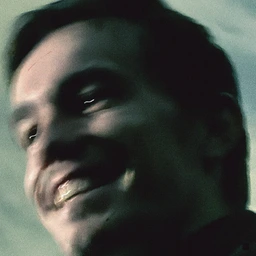
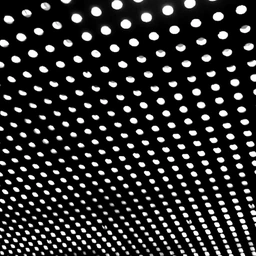
Slide Spotify out whole at the filter flip and swap in Liam's songs
- At the flip, Spotify shrank in place while the centred bar narrowed,
  so the bar's left edge moved right 24px as the block squeezed. Liam
  saw it as a snap. The bar now narrows as it rises, as the header
  narrows on scroll, finishing as the flip starts. At the flip Spotify
  slides out whole under the bar's left edge, fading a little, while the
  fill and label follow its right edge on the header flip's ease. A test
  checks every 60fps frame of the flip for jumps.
- Songs: Mimesis by Fontaines D.C. (playing), Lovely Sewer by Yves
  Tumor (4m ago), Lazuli by Beach House (playing). Same times and states
  as before, with their covers from Spotify.

diff --git a/src/lib/og-story.ts b/src/lib/og-story.ts
@@ -57,10 +57,10 @@ export const PLAYER_AT = 2000;
 const SOLO_AT = 3300;
 /** Three songs: playing, played a few minutes ago, playing. */
 export const SONG_ATS = [PLAYER_AT + 400, 3900, 4800];
-/** The album leaves and Spotify slides into its place as the bar rises; then the bar flips to the filter on the site's
- * header flip ease (homepage.css `.is-over-images`, --header-scroll-ease): Spotify shrinks and fades away as the fill
- * and label ride its edge into place and the bar narrows to its new width, all in one motion; the fill turns
- * translucent, the dot pops in, and the text scrambles to "All". */
+/** The album leaves and Spotify slides into its place as the bar rises and narrows, as the header narrows once the page
+ * scrolls. Then the bar flips to the filter on the site's header flip ease (homepage.css `.is-over-images`,
+ * --header-scroll-ease): Spotify slides out to the left under the bar's edge, whole, as the fill and label follow its
+ * right edge into place; the fill turns translucent, the dot pops in, and the text scrambles to "All". */
 const LIFT_AT = 5800, RISE_MS = 900, SLIDE_AT = LIFT_AT + 200;
 export const FILTER_AT = SLIDE_AT + 420;
 /** The grid follows the bar up, reaching it just after it has become the filter, which turns translucent over it as
@@ -181,12 +181,12 @@ export const motionAt = (grid: GridFrame | null, ms: number) => grid && ms >= SP
  *
  * Spotify is two blocks: one at the far right end, one after the album. Each is as wide as `brandRight` or `brandLeft`
  * (0 to the square's size), so moving sides is the right one shrinking as the left one grows. `brand` pops the right
- * block in; at the flip to the filter the left one narrows to nothing as `brandLeftPop` fades and shrinks it.
+ * block in; at the flip to the filter the left one slides out past the bar's left edge as `brandLeftPop` fades it.
  */
 export interface BarFrame {
   left: number; top: number; width: number;
-  /** Pops, 0 (out) to 1: the avatar, the album, the Spotify blocks (right, then left, which fades on the flip's ease)
-   * and the filter's dot. */
+  /** Pops, 0 (out) to 1: the avatar, the album, the right Spotify block and the filter's dot; `brandLeftPop` is only
+   * the left block's fade as it slides out. */
   avatar: number; album: number; brand: number; brandLeftPop: number; mark: number;
   /** Whether the album is there at all (it waits under the avatar until the player comes in). */
   albumIn: number; albumX: number;
@@ -230,14 +230,15 @@ function barKeys({ column, control, narrow, inset, panel, slot, pop, scroll }: S
     move(SOLO_AT, { lead: 0, albumX: 0, brandLeftX: control, brandLeft: control, brandRight: 0 }),
     { at: SONG_ATS[1], ms: pop, ease: motionEase, set: { playing: 0 } },
     { at: SONG_ATS[2], ms: pop, ease: motionEase, set: { playing: 1 } },
-    // The album pops out and the bar rises; Spotify slides into the album's place.
+    // The album pops out and the bar rises, narrowing as it goes; Spotify slides into the album's place.
     { at: LIFT_AT, ms: pop, ease: motionEase, set: { album: 0 } },
     { at: LIFT_AT, ms: RISE_MS, ease: enterEase, set: { rise: 1 } },
+    { at: LIFT_AT, ms: FILTER_AT - LIFT_AT, ease: enterEase, set: { width: column - narrow } },
     { at: LIFT_AT + pop, ms: 1, ease: cut, set: { albumIn: 0 } },
     move(SLIDE_AT, { brandLeftX: 0 }),
-    // The flip to the filter, in one motion: Spotify narrows and fades as the fill and label follow its edge and the
-    // bar narrows to its width over the work, as the header's does once the page scrolls.
-    flip(FILTER_AT, { brandLeft: 0, brandLeftPop: 0, textPad: slot, over: 1, width: column - narrow }),
+    // The flip to the filter, in one motion: Spotify slides out under the bar's left edge, whole and fading a little,
+    // as the fill and label follow its right edge. Shrinking it in place while the bar narrowed squeezed it from the left.
+    flip(FILTER_AT, { brandLeftX: -control, brandLeftPop: 0, textPad: slot, over: 1 }),
     { at: FILTER_AT, ms: pop, ease: motionEase, set: { mark: 1 } },
     // Into the focused tile: the mark pops out as the text moves into its place.
     { at: LAND_AT, ms: pop, ease: motionEase, set: { mark: 0 } },
@@ -279,12 +280,12 @@ export interface StoryCopy {
 }
 export interface StoryProject { company: string; label: string; period: string }
 
-/** Three of Liam's recent songs: where the clock starts if playing, or how long ago it played. Their art is saved in
- * public/images/meta as og-story-album-1 to 3. */
+/** Liam's three songs: where the clock starts if playing, or how long ago it played. Their art, from Spotify, is saved
+ * in public/images/meta as og-story-album-1 to 3. */
 export const SONGS: { title: string; artist: string; seconds?: number; ago?: string }[] = [
-  { title: "Childhood", artist: "Beach House", seconds: 84 },
-  { title: "Everything", artist: "Found Space", ago: "4m ago" },
-  { title: "Ten Long Years", artist: "LL Burns", seconds: 127 },
+  { title: "Mimesis", artist: "Fontaines D.C.", seconds: 84 },
+  { title: "Lovely Sewer", artist: "Yves Tumor", ago: "4m ago" },
+  { title: "Lazuli", artist: "Beach House", seconds: 127 },
 ];
 const clock = (seconds: number) => `${Math.floor(seconds / 60)}:${String(seconds % 60).padStart(2, "0")}`;
 

diff --git a/src/components/og-story.tsx b/src/components/og-story.tsx
@@ -189,7 +189,9 @@ export function OgStory() {
       parts.brandRight.style.width = `${rightWidth}px`;
       pop(parts.brandRight, frame.width - rightWidth, frame.brandRight > 0.5 ? frame.brand : 0);
       parts.brandLeft.style.width = `${frame.brandLeft}px`;
-      pop(parts.brandLeft, frame.brandLeftX, frame.brandLeft > 0.1 ? frame.brandLeftPop : 0);
+      // The left block moves and fades but never scales: at the flip it slides out whole under the bar's left edge.
+      parts.brandLeft.style.transform = `translateX(${frame.brandLeftX}px)`;
+      parts.brandLeft.style.opacity = String(frame.brandLeft > 0.1 ? frame.brandLeftPop : 0);
       parts.brandRightPlaying.style.opacity = parts.brandLeftPlaying.style.opacity = String(frame.playing);
       pop(parts.mark, metrics.inset, frame.mark);
       parts.copy.style.left = `${frame.textLeft}px`;

diff --git a/docs/progress.md b/docs/progress.md
@@ -16,11 +16,11 @@ decided, or gets dropped.
 - Validation: all eight browser scenarios, 117 tests, TypeScript, touched-file lint and the production build pass. The initial reproduction's maximum sampled media offset falls from 74px to 0px in both engines.
 
 **Story video (2026-11-12)**
-- Storyboard: Figma 678:4147. `/og/story` (dev only) is a short highlight reel introducing the site with its own pieces, animated like the work reel. The avatar pops in and the header bar opens into "Office of … Liam Fennell". It becomes the player and flips through three of Liam's recent songs: "Childhood" by Beach House (playing), "Everything" by Found Space (4m ago, grey), and "Ten Long Years" by LL Burns (playing). Each new cover comes in over the last in 8 × 8 clusters, like the site's player. Then the bar rises and flips to the "● All … Top" filter on the site's header flip (homepage.css `.is-over-images`, `--header-scroll-duration`/`--header-scroll-ease`), in one motion. Spotify narrows and fades away as the fill and label ride its edge into the filter slot and the bar narrows to its width over the work. The fill turns translucent, the dot pops in, and the text scrambles to "All". The feed grid follows the bar up, reaching it just after the flip. The grid spins (a power ramp up, a long fall to rest, with the reel's warp and vertical blur, scaled by speed so rest frames are flat) and lands on the Rewards card at 8.5s. That tile zooms to a 600px focused tile, larger than the 552px grid so the bar's text sits small against the work. It pages through Rewards card, Shopping agent, Incentives and Canvas (dwells 900, 700, 600ms, then 1s on Canvas). Canvas slides away alone, off the name, which is already there behind it (28px, `--text-og-story-name`, smaller than the link card's 40px). The name is shown only once that tile covers it; earlier, it would flicker through the 8px gaps between pages. It holds 2.5s, glitches out, and "fennell.cv" in serif glitches into the same spot, holds 2.5s, and glitches out to blank. About 22s, seamless. Glitching the two texts in overlapping, as the reel overlaps its letters and grid, mixed their letters.
+- Storyboard: Figma 678:4147. `/og/story` (dev only) is a short highlight reel introducing the site with its own pieces, animated like the work reel. The avatar pops in and the header bar opens into "Office of … Liam Fennell". It becomes the player and flips through three songs Liam picked: "Mimesis" by Fontaines D.C. (playing), "Lovely Sewer" by Yves Tumor (4m ago, grey), and "Lazuli" by Beach House (playing). Each new cover comes in over the last in 8 × 8 clusters, like the site's player. Then the bar rises, narrowing as it goes (as the header narrows once the page scrolls), and flips to the "● All … Top" filter on the site's header flip (homepage.css `.is-over-images`, `--header-scroll-duration`/`--header-scroll-ease`). In one motion, Spotify slides out whole under the bar's left edge, fading a little, as the fill and label follow its right edge into the filter slot. The fill turns translucent, the dot pops in, and the text scrambles to "All". The feed grid follows the bar up, reaching it just after the flip. The grid spins (a power ramp up, a long fall to rest, with the reel's warp and vertical blur, scaled by speed so rest frames are flat) and lands on the Rewards card at 8.5s. That tile zooms to a 600px focused tile, larger than the 552px grid so the bar's text sits small against the work. It pages through Rewards card, Shopping agent, Incentives and Canvas (dwells 900, 700, 600ms, then 1s on Canvas). Canvas slides away alone, off the name, which is already there behind it (28px, `--text-og-story-name`, smaller than the link card's 40px). The name is shown only once that tile covers it; earlier, it would flicker through the 8px gaps between pages. It holds 2.5s, glitches out, and "fennell.cv" in serif glitches into the same spot, holds 2.5s, and glitches out to blank. About 22s, seamless. Glitching the two texts in overlapping, as the reel overlaps its letters and grid, mixed their letters.
 - The bar: its layers sit back to front as the grey fill, the dot and text, Spotify, the album, then the avatar (as the site's header stacks its avatar above its label), and the fill's edges and text positions are worked out from the squares, so everything moves together. The bar opens only once the avatar has finished popping, on the reel's accelerate-then-decelerate curve (on `--motion-ease` it lurched open, then crept). Other moves are 380ms on the site's `--motion-ease` and pops use the site's 280ms. The album slides out from under the avatar as Spotify pops in at full size at the far end, the fill drawing back off it. When the avatar leaves, Spotify moves sides as two blocks: the right one shrinks as one after the album grows, so it never crosses the text. Text and the time share one row; text changes only once the bar has settled (except in the flip, as on the site), and the clock ticks in place without the scramble, as the site's does. React renders each text only once and the scramble writes every change after, since otherwise the new words showed for a frame before the scramble started from the old ones. Tests check these rules frame by frame.
 - Liam's choices: 16:9 and 9:16, real project media in the tiles, silent for now, and both cuts at the 9:16 cut's sizing.
-- History, same day. The first cut (14.7s) landed at 5.3s and paged all ten projects down to 46ms dwells. Liam found it too fast, with overlaps in the "Office of" → Spotify transition. The second (27s) slowed everything into long glides and fixed the overlaps with Spotify wiped by the fill. Liam then wanted a shorter, snappier highlight reel, and after that, the site's own name-to-filter flip (with its dot and "All" rather than the storyboard's square and "Filter") in place of Spotify collapsing, and a smoother opening. Spotify popping out at the flip, on the front-loaded pop ease while the bar had already narrowed, was too abrupt, so it now narrows away in step with the bar. The ending changed from the name glitching in to the name already there, then the address. Spotify should pop and visibly morph sides (in the wipe version a sliver of it showed under the fill), with three songs instead of one held long, the list in sync with the bar, four projects, larger focused tiles, a smaller name, and sharper output.
-- Text uses the site's filter scramble; the filter shows the site's dot and "All". The 600px focus tile is a video size rather than a site token. Labels come from `PROJECT_PREVIEWS`. The album art (`public/images/meta/og-story-album-{1,2,3}.webp`) comes from Spotify's recently played list; the swap is reimplemented on the scene's clock because the site's `AlbumArtwork` runs on Web Animations, which the capture's virtual clock can't drive.
+- History, same day. The first cut (14.7s) landed at 5.3s and paged all ten projects down to 46ms dwells. Liam found it too fast, with overlaps in the "Office of" → Spotify transition. The second (27s) slowed everything into long glides and fixed the overlaps with Spotify wiped by the fill. Liam then wanted a shorter, snappier highlight reel, and after that, the site's own name-to-filter flip (with its dot and "All" rather than the storyboard's square and "Filter") in place of Spotify collapsing, and a smoother opening. Spotify popping out at the flip, on the front-loaded pop ease while the bar had already narrowed, was too abrupt. Narrowing it away while the bar narrowed squeezed it from the left in a snap, since a centred bar's left edge moves right as it narrows. It now slides out whole after the bar has narrowed. The ending changed from the name glitching in to the name already there, then the address. Spotify should pop and visibly morph sides (in the wipe version a sliver of it showed under the fill), with three songs instead of one held long, the list in sync with the bar, four projects, larger focused tiles, a smaller name, and sharper output.
+- Text uses the site's filter scramble; the filter shows the site's dot and "All". The 600px focus tile is a video size rather than a site token. Labels come from `PROJECT_PREVIEWS`. The album art (`public/images/meta/og-story-album-{1,2,3}.webp`) comes from Spotify (Mimesis is on *Dopamine Chamber*, the storyboard's cover); the first three songs were from Liam's recently played list; the swap is reimplemented on the scene's clock because the site's `AlbumArtwork` runs on Web Animations, which the capture's virtual clock can't drive.
 - Code: pure timeline in `src/lib/og-story.ts` (tested in `tests/og-story.test.mjs`), the scene in `src/components/og-story.tsx`. The reel's row-by-row warped painter is now `paintWarped` in `og-reel.ts`, shared by both. `node scripts/capture-og.mjs http://localhost:3000/og 7 --story [--quick]` writes `out/share/office-of-liam-fennell-story-{16x9,9x16}.{mp4,png}`. Both cuts share one scale: laid out at 1366×768 and 768×1366 (desktop layout, the 552px column), recorded at 2.8125× (twice the 1080p output), cropped to an even 4K frame and scaled down with lanczos, so text and edges are crisp. Unwarped tiles are drawn in one piece rather than row by row, and tiles use the largest H.264 rendition. 16:9 was first laid out at 1080×608, which made everything larger and tighter than the 9:16 cut. The story capture runs in installed Google Chrome, since Playwright's Chromium can't play the tiles' H.264 clips; under Chrome, Playwright's default `requestAnimationFrame` polling ran on the page's frozen virtual clock and never fired, so the capture now polls for readiness on a timer.
 
 **New Blink timer clip (2026-11-09)**
